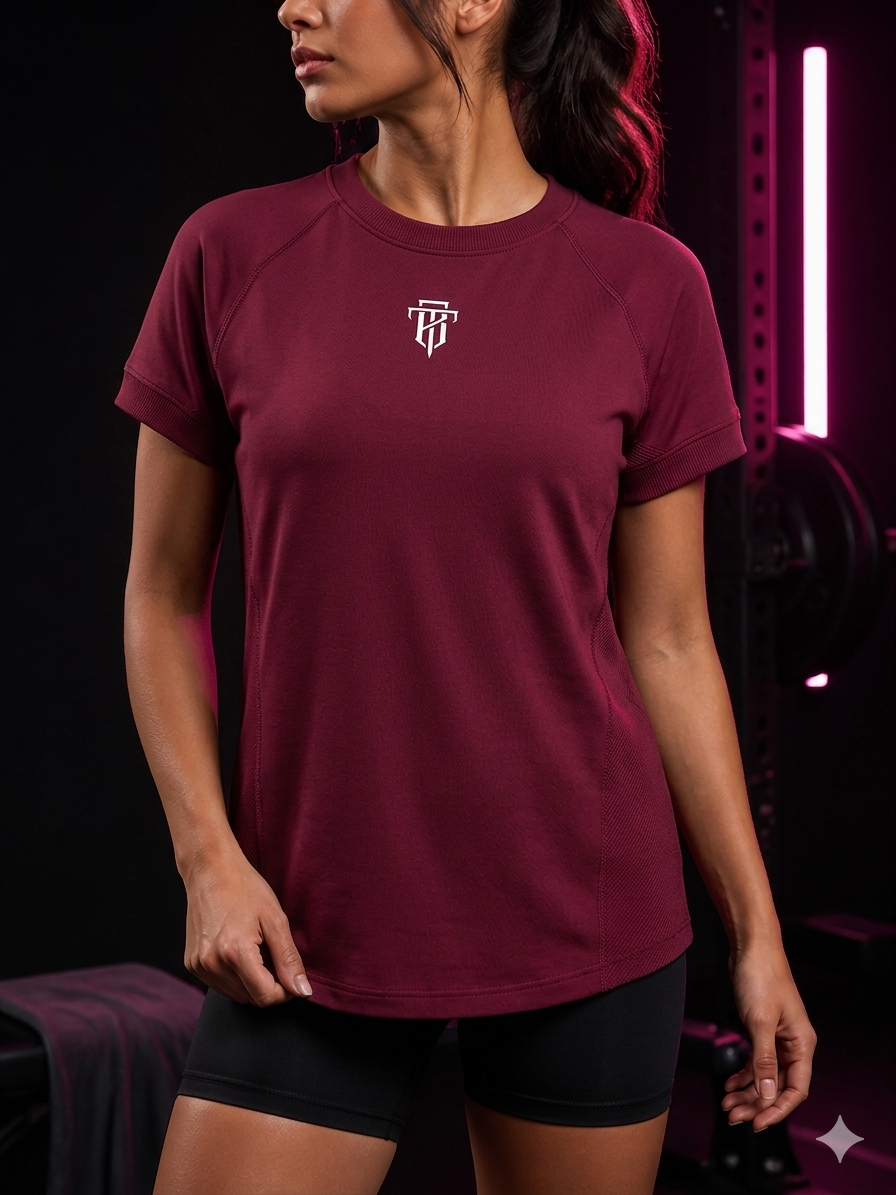
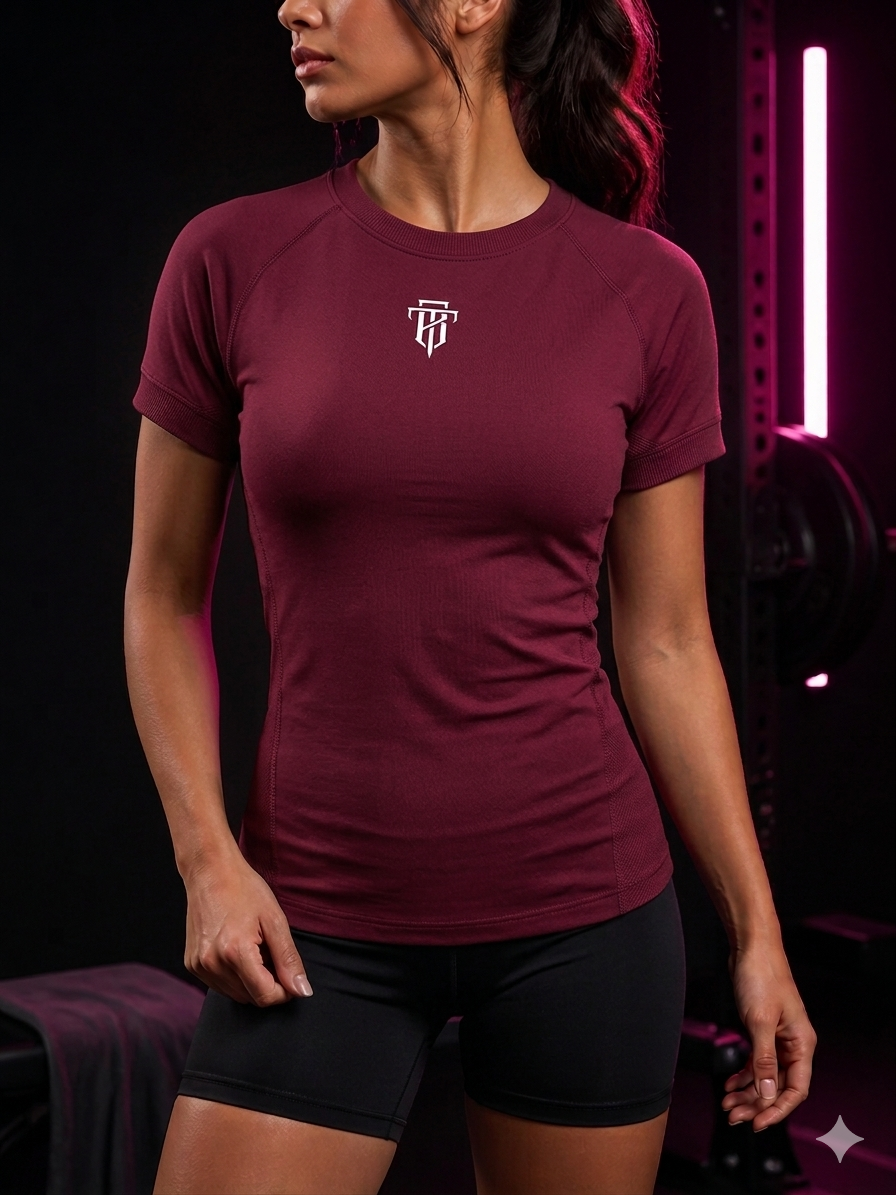
feat: add remove button to checkout order summary

diff --git a/src/App.jsx b/src/App.jsx
@@ -532,7 +532,7 @@ function CatalogView({ content, openOptions, setView }) {
   );
 }
 
-function CheckoutView({ content, cart, setView }) {
+function CheckoutView({ content, cart, removeFromCart, setView }) {
   return (
     <main className="checkout-page">
       <section className="catalog-hero">
@@ -572,17 +572,28 @@ function CheckoutView({ content, cart, setView }) {
           {cart.length === 0 ? (
             <p>{content.ui.emptyCart}</p>
           ) : (
-            cart.map((item) => (
-              <div className="cart-line" key={`${item.name}-${item.size}-${item.color}`}>
-                <img src={item.image} alt={item.name} />
-                <div>
-                  <strong>{item.name}</strong>
-                  <span>
-                    {item.size} / {item.color} x {item.quantity}
-                  </span>
+            <>
+              {cart.map((item, index) => (
+                <div className="cart-line" key={`${item.name}-${item.size}-${item.color}-${index}`}>
+                  <img src={item.image} alt={item.name} />
+                  <div>
+                    <strong>{item.name}</strong>
+                    <span>
+                      {item.size} / {item.color} x {item.quantity}
+                    </span>
+                    <span className="cart-price">{item.price}</span>
+                  </div>
+                  <button
+                    className="cart-remove"
+                    type="button"
+                    aria-label="Eliminar"
+                    onClick={() => removeFromCart(index)}
+                  >
+                    <X size={14} />
+                  </button>
                 </div>
-              </div>
-            ))
+              ))}
+            </>
           )}
         </aside>
       </section>
@@ -1099,7 +1110,7 @@ export default function App() {
       {view === "catalog" && (
         <CatalogView content={content} openOptions={setSelectedProduct} setView={setView} />
       )}
-      {view === "checkout" && <CheckoutView content={content} cart={cart} setView={setView} />}
+      {view === "checkout" && <CheckoutView content={content} cart={cart} removeFromCart={removeFromCart} setView={setView} />}
       {["faq", "exchanges", "size-guide", "privacy", "terms", "shipping", "top-sellers", "men-drop"].includes(view) && (
         <InfoPageView content={content} pageKey={view} setView={setView} openOptions={setSelectedProduct} />
       )}
